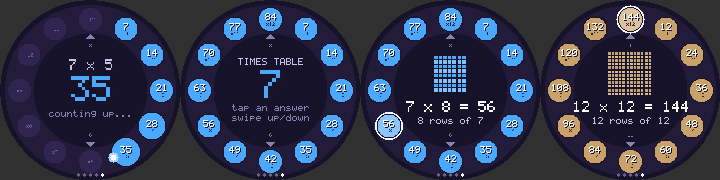
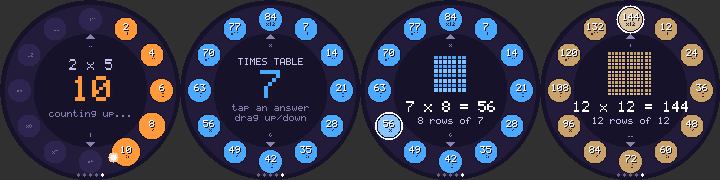
Times tables: drag up/down runs through the tables straight away (one per 22 px), no animation when the table changes

diff --git a/components/orbling/pet_engine.cpp b/components/orbling/pet_engine.cpp
@@ -106,6 +106,7 @@ static void button_pos(int i, int &x, int &y) {
 }
 
 static inline int sq(int v) { return v * v; }
+static const int TT_DRAG_PX = 22;  // times tables: one table per this much drag up or down
 
 // ---------------------------------------------------------------------------------------------
 // Procedural sprite
@@ -1158,7 +1159,7 @@ void PetEngine::loop(uint32_t now) {
 
 int PetEngine::wanted_fps() const {
   if (overlay_ == OV_GAME) return 25;
-  if (page_ == PAGE_TABLES && tables_animating(now_)) return 25;
+  if (page_ == PAGE_TABLES && (pressed_ || tables_animating(now_))) return 25;  // smooth while dragging
   if (!s_.lights_on && !pressed_ && (now_ - last_user_ > 20000 || last_user_ == 0)) return 2;
   if (is_dozing(now_) && !pressed_) return 4;
   return 15;
@@ -2113,6 +2114,9 @@ void PetEngine::touch_down(int x, int y, uint32_t now) {
   ty0_ = ty_ = y;
   press_ms_ = now;
   last_user_ = now ? now : 1;
+  tt_drag_y_ = (int16_t) y;
+  tt_lock_ = 0;
+  tt_dragged_ = false;
   if (overlay_ == OV_GAME && page_ == 0) {
     game_touch_ = true;
     game_press(x, y);
@@ -2124,6 +2128,18 @@ void PetEngine::touch_move(int x, int y) {
   ty_ = y;
   if (overlay_ == OV_GAME && (game_kind_ == GAME_CATCH || game_kind_ == GAME_MUNCH) && pressed_)
     catch_target_ = (float) x;  // drag to move
+  if (page_ == PAGE_TABLES && overlay_ == OV_NONE && pressed_) {
+    int dx = x - tx0_, dy = y - ty0_;
+    if (tt_lock_ == 0 && (abs(dx) > 14 || abs(dy) > 14)) tt_lock_ = abs(dy) > abs(dx) ? 1 : -1;
+    if (tt_lock_ == 1) {
+      int steps = (tt_drag_y_ - y) / TT_DRAG_PX;  // up: the next tables, down: the ones before
+      if (steps) {
+        tables_step(steps);
+        tt_drag_y_ = (int16_t) (tt_drag_y_ - steps * TT_DRAG_PX);
+        tt_dragged_ = true;
+      }
+    }
+  }
 }
 
 void PetEngine::touch_up(uint32_t now) {
@@ -2140,14 +2156,11 @@ void PetEngine::touch_up(uint32_t now) {
     game_touch_ = false;
     return;
   }
+  if (page_ == PAGE_TABLES && (tt_dragged_ || tt_lock_ == 1)) return;
   int dx = tx_ - tx0_, dy = ty_ - ty0_;
   if (abs(dx) > 70 && abs(dx) > abs(dy) && overlay_ == OV_NONE) {
     page_ = (uint8_t) ((page_ + (dx < 0 ? 1 : PAGE_COUNT - 1)) % PAGE_COUNT);
     if (page_ == PAGE_TABLES) tables_start_sweep();
-    return;
-  }
-  if (page_ == PAGE_TABLES && abs(dy) > 50 && abs(dy) > abs(dx)) {  // up: next table, down: previous
-    tables_step(dy < 0 ? 1 : -1);
     return;
   }
   if (!long_fired_) tap(tx0_, ty0_);
@@ -3455,22 +3468,17 @@ void PetEngine::tables_start_sweep() {
   tt_sel_ = 0;
 }
 
-void PetEngine::tables_step(int dir) {
-  tt_table_ = (uint8_t) ((tt_table_ - 1 + dir + 12) % 12 + 1);
-  tt_dir_ = (int8_t) dir;
-  tt_change_ms_ = now_ ? now_ : 1;
-  if (tt_sel_) {
-    tt_sel_ms_ = tt_change_ms_;  // keep the picked fact (7 x 8 becomes 8 x 8) and redraw its dots
-    tt_sweep_ms_ = 0;
-  } else {
-    tables_start_sweep();
-  }
+// Instant, with no animation, so a drag can run through the tables quickly. A picked fact stays picked
+// (7 x 8 becomes 8 x 8).
+void PetEngine::tables_step(int steps) {
+  tt_table_ = (uint8_t) ((tt_table_ - 1 + steps % 12 + 12) % 12 + 1);
+  tt_sweep_ms_ = 0;
+  tt_sel_ms_ = 0;
 }
 
 bool PetEngine::tables_animating(uint32_t now) const {
   if (tt_sweep_ms_ && now - tt_sweep_ms_ < (uint32_t) (12 * TT_STEP_MS + 600)) return true;
-  if (tt_sel_ && now - tt_sel_ms_ < 1200) return true;
-  return tt_change_ms_ && now - tt_change_ms_ < 300;
+  return tt_sel_ && tt_sel_ms_ && now - tt_sel_ms_ < 1200;
 }
 
 void PetEngine::tables_tap(int x, int y) {
@@ -3570,9 +3578,7 @@ void PetEngine::draw_tables(Canvas &c, uint32_t now) {
   snprintf(buf, sizeof(buf), "%d", (n + 10) % 12 + 1);
   text(c, 180, TT_DOWN_Y - 12, buf, 1, 0x8A80B0, true, false);
 
-  // The middle. A new table slides its number in from the side it came from.
-  int slide = 0;
-  if (tt_change_ms_ && now - tt_change_ms_ < 200) slide = tt_dir_ * (int) (24 * (1.0f - (now - tt_change_ms_) / 200.0f));
+  // The middle.
   if (tt_sel_) {
     // A picture of n x k: k rows of n dots, the rows appearing one by one.
     int k = tt_sel_, big = n > k ? n : k;
@@ -3581,12 +3587,12 @@ void PetEngine::draw_tables(Canvas &c, uint32_t now) {
     int dot = p - 2 < 2 ? 2 : p - 2;
     int gw = n * p + (n - 1) / 5 * 2, gh = k * p + (k - 1) / 5 * 2;  // a small gap every five, for counting
     int ox = 180 - gw / 2, oy = 148 - gh / 2;
-    int rows = (int) ((now - tt_sel_ms_) / 70) + 1;
+    int rows = tt_sel_ms_ ? (int) ((now - tt_sel_ms_) / 70) + 1 : k;  // row by row just after a tap
     for (int r = 0; r < k && r < rows; r++)
       for (int q = 0; q < n; q++)
         rect(c, ox + q * p + q / 5 * 2, oy + r * p + r / 5 * 2, dot, dot, r % 2 ? mix(col, 0xFFFFFF, 0.3f) : col);
     snprintf(buf, sizeof(buf), "%d x %d = %d", n, k, n * k);
-    text(c, 180, 202 + slide, buf, 3, 0xFFFFFF);
+    text(c, 180, 202, buf, 3, 0xFFFFFF);
     snprintf(buf, sizeof(buf), "%d row%s of %d", k, k == 1 ? "" : "s", n);
     text(c, 180, 234, buf, 2, 0xC9C2E8, true, false);
   } else if (sweeping) {
@@ -3594,14 +3600,14 @@ void PetEngine::draw_tables(Canvas &c, uint32_t now) {
     snprintf(buf, sizeof(buf), "%d x %d", n, shown);
     text(c, 180, 118, buf, 3, 0xC9C2E8);
     snprintf(buf, sizeof(buf), "%d", n * shown);
-    text(c, 180, 152 + slide, buf, 7, col);
+    text(c, 180, 152, buf, 7, col);
     text(c, 180, 220, "counting up...", 2, 0x8A80B0, true, false);
   } else {
     text(c, 180, 116, "TIMES TABLE", 2, 0xC9C2E8, true, false);
     snprintf(buf, sizeof(buf), "%d", n);
-    text(c, 180, 140 + slide, buf, 8, col);
+    text(c, 180, 140, buf, 8, col);
     text(c, 180, 208, "tap an answer", 2, 0x8A80B0, true, false);
-    text(c, 180, 228, "swipe up/down", 2, 0x8A80B0, true, false);
+    text(c, 180, 228, "drag up/down", 2, 0x8A80B0, true, false);
   }
 }
 

diff --git a/components/orbling/pet_engine.h b/components/orbling/pet_engine.h
@@ -359,7 +359,7 @@ class PetEngine {
   // Times-table page: the table as a clock face, a count-up sweep, and a dot picture of a picked fact.
   void draw_tables(Canvas &c, uint32_t now);
   void tables_tap(int x, int y);
-  void tables_step(int dir);  // next (+1) or previous (-1) table
+  void tables_step(int steps);  // +n: n tables on, -n: n back (wraps 12 -> 1)
   void tables_start_sweep();
   bool tables_animating(uint32_t now) const;
 
@@ -396,9 +396,11 @@ class PetEngine {
   // times-table page
   uint8_t tt_table_{2};       // 1..12
   uint8_t tt_sel_{0};         // picked fact, table x tt_sel_ (1..12); 0 none
-  int8_t tt_dir_{0};          // which way the table number last changed, for its slide-in
   uint32_t tt_sweep_ms_{0};   // when the count-up sweep started; 0 none
-  uint32_t tt_sel_ms_{0}, tt_change_ms_{0};
+  uint32_t tt_sel_ms_{0};     // when an answer was tapped (its dots appear row by row)
+  int16_t tt_drag_y_{0};      // a drag up or down runs through the tables: y of the last step
+  int8_t tt_lock_{0};         // this touch: 0 undecided, 1 up/down (tables), -1 sideways (pages)
+  bool tt_dragged_{false};    // this touch changed the table, so it is not a tap
   Overlay overlay_{OV_NONE};
   uint32_t overlay_since_{0};
   Activity act_{ACT_IDLE};

diff --git a/sim/sim.cpp b/sim/sim.cpp
@@ -685,20 +685,20 @@ int main(int argc, char **argv) {
     y = 180 - (int) lroundf(142 * cosf(k * 3.14159265f / 6));
   };
   int rx, ry;
+  now += 2000;  // let the settings page's "Hold to confirm" go
+  e.loop(now);
   swipe(300, 180, 120, 185);
-  for (int i = 0; i < 5; i++) swipe(180, 250, 180, 140);  // up five times: the 7 times table
-  now += 4 * 160 + 60;
+  now += 4 * 160 + 60;  // the page opens counting up (the 2 times table)
   e.loop(now);
   shot(e, "21a-tables-counting", now);
-  now += 3000;
-  e.loop(now);
+  swipe(180, 250, 180, 140);  // one 110 px drag up: five tables on, to 7, straight away
   shot(e, "21b-tables", now);
   ring_xy(8, rx, ry);
   tap(e, rx, ry, now);  // pick 7 x 8
   now += 1500;
   e.loop(now);
   shot(e, "21c-tables-7x8", now);
-  for (int i = 0; i < 5; i++) swipe(180, 250, 180, 140);  // on to 12, keeping the picked x8
+  swipe(180, 250, 180, 140);  // on to 12, keeping the picked x8
   ring_xy(12, rx, ry);
   tap(e, rx, ry, now);  // pick x12: the biggest picture
   now += 1500;

diff --git a/README.md b/README.md
@@ -131,8 +131,9 @@ energy, Jump and Catch burn a little weight, and each game keeps its best score.
 
 **Times tables** (a homework helper, one swipe right from the pet) lays a table out like a clock: x1 at one
 o'clock round to x12 at twelve, so the whole table is on the screen at once. It opens by counting up: a light sweeps
-round the ring and each answer pops in while the middle counts 7, 14, 21... Swipe up or down (or tap the small
-arrows) for the next or previous table, 1 to 12. Tap an answer to see that fact in the middle with a picture of it:
+round the ring and each answer pops in while the middle counts 7, 14, 21... Drag up or down to run through the
+tables, 1 to 12: they change straight away as your finger moves, one table for every 22 px or so, so one long drag
+goes through several (up for bigger tables). The small arrows step one at a time. Tap an answer to see that fact in the middle with a picture of it:
 7 x 8 shows 8 rows of 7 dots, with a gap every five to make counting easy. Changing table keeps the picked fact
 (7 x 8 becomes 8 x 8). Tap the middle to go back to the table, and again to count it up again. It is not a game:
 no coins or Smarts.
